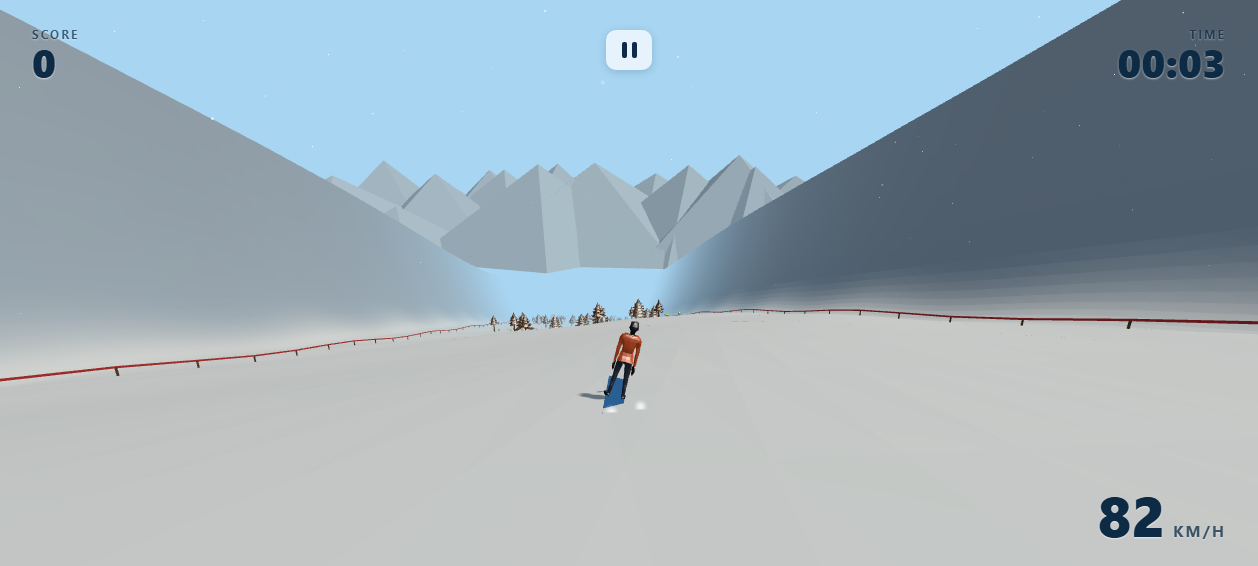
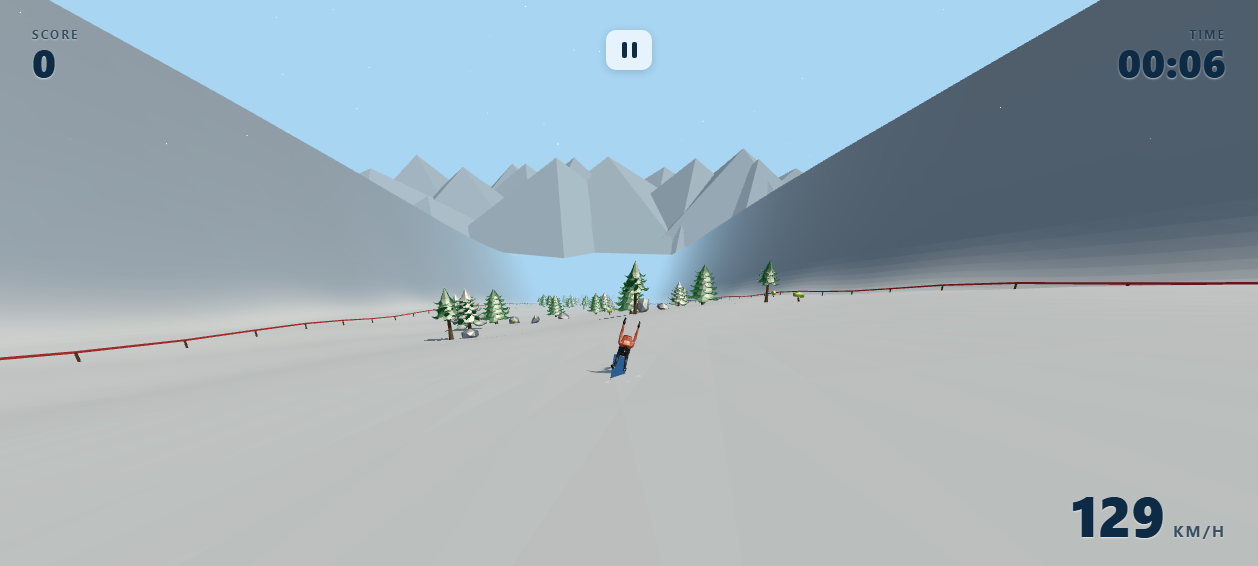
feat: green pines, riding stance and rider helmet
- Fix multi-material split for non-indexed FBX geometry (pines now show green foliage instead of all-brown)
- Pine palette tinted green; forest weighted toward green pines with one snow-capped variant
- Rider gets a layered crouch/lean riding stance on top of the idle clip
- Helmet and goggles attached to the head bone
- README screenshots refreshed

diff --git a/src/world/ModelLibrary.ts b/src/world/ModelLibrary.ts
@@ -29,12 +29,8 @@ export interface ModelLibrary {
   rider: RiderAsset | null;
 }
 
-const TREE_URLS = [
-  'models/pine_snow1.fbx',
-  'models/pine_snow2.fbx',
-  'models/pine1.fbx',
-  'models/pine2.fbx',
-];
+// Weighted toward the plain (green) pines; one snow-capped variant for variety.
+const TREE_URLS = ['models/pine1.fbx', 'models/pine2.fbx', 'models/pine1.fbx', 'models/pine_snow1.fbx'];
 const ROCK_URLS = ['models/rock1.fbx', 'models/rock2.fbx', 'models/rock3.fbx'];
 const BUSH_URLS = ['models/bush1.fbx', 'models/bush2.fbx', 'models/bush3.fbx'];
 const RIDER_URL = 'models/rider.fbx';
@@ -66,16 +62,37 @@ function collectParts(
     produced.push(sub);
   };
 
-  if (materials.length > 1 && groups.length > 0 && index) {
+  if (materials.length > 1 && groups.length > 0) {
     for (const group of groups) {
-      const sub = geometry.clone();
-      sub.clearGroups();
-      sub.setIndex(
-        new THREE.BufferAttribute(
-          (index.array as unknown as number[]).slice(group.start, group.start + group.count) as never,
-          1,
-        ),
-      );
+      const sub = new THREE.BufferGeometry();
+      for (const name of Object.keys(geometry.attributes)) {
+        const attribute = geometry.attributes[name] as THREE.BufferAttribute;
+        const itemSize = attribute.itemSize;
+        if (index) {
+          sub.setAttribute(name, attribute.clone());
+        } else {
+          // Non-indexed: group ranges address vertices directly.
+          const array = (attribute.array as unknown as number[]).slice(
+            group.start * itemSize,
+            (group.start + group.count) * itemSize,
+          );
+          sub.setAttribute(
+            name,
+            new THREE.BufferAttribute(array as never, itemSize, attribute.normalized),
+          );
+        }
+      }
+      if (index) {
+        sub.setIndex(
+          new THREE.BufferAttribute(
+            (index.array as unknown as number[]).slice(
+              group.start,
+              group.start + group.count,
+            ) as never,
+            1,
+          ),
+        );
+      }
       push(materials[group.materialIndex ?? 0], sub);
     }
     return produced;
@@ -160,19 +177,33 @@ function tint(asset: ModelAsset, color: number): ModelAsset {
   return asset;
 }
 
+/** Recolours only the named materials (keeps e.g. snow white). */
+function tintByName(asset: ModelAsset, map: Record<string, number>): ModelAsset {
+  for (const part of asset.parts) {
+    const color = map[part.material.name];
+    if (color === undefined) continue;
+    const material = part.material.clone();
+    if ('color' in material) (material as THREE.MeshStandardMaterial).color.setHex(color);
+    part.material = material;
+  }
+  return asset;
+}
+
 async function loadGroup(
   loader: FBXLoader,
   urls: string[],
   targetHeight: number,
   fallbackColor: number,
-  tintColor?: number,
+  options: { tint?: number; tintMap?: Record<string, number> } = {},
 ): Promise<ModelAsset[]> {
   const assets: ModelAsset[] = [];
   for (const url of urls) {
     try {
       const object = await loader.loadAsync(url);
-      const asset = normalise(object, targetHeight);
-      assets.push(tintColor === undefined ? asset : tint(asset, tintColor));
+      let asset = normalise(object, targetHeight);
+      if (options.tint !== undefined) asset = tint(asset, options.tint);
+      if (options.tintMap) asset = tintByName(asset, options.tintMap);
+      assets.push(asset);
     } catch (error) {
       console.warn(`SnowRush: could not load ${url}, using fallback`, error);
       assets.push(fallbackAsset(fallbackColor, targetHeight));
@@ -237,14 +268,12 @@ export function createFallbackLibrary(): ModelLibrary {
 export async function loadModelLibrary(): Promise<ModelLibrary> {
   const loader = new FBXLoader();
   const [trees, rocks, bushes, rider] = await Promise.all([
-    loadGroup(loader, TREE_URLS, CONFIG.course.trees.visualHeight, CONFIG.colors.treeFoliage),
-    loadGroup(
-      loader,
-      ROCK_URLS,
-      CONFIG.course.rocks.visualHeight,
-      CONFIG.colors.rock,
-      CONFIG.colors.rock,
-    ),
+    loadGroup(loader, TREE_URLS, CONFIG.course.trees.visualHeight, CONFIG.colors.treeFoliage, {
+      tintMap: { Green: CONFIG.colors.pineGreen, Brown: CONFIG.colors.treeTrunk },
+    }),
+    loadGroup(loader, ROCK_URLS, CONFIG.course.rocks.visualHeight, CONFIG.colors.rock, {
+      tint: CONFIG.colors.rock,
+    }),
     loadGroup(loader, BUSH_URLS, CONFIG.course.bushes.visualHeight, CONFIG.colors.treeFoliage),
     loadRider(loader),
   ]);

diff --git a/src/player/PlayerVisual.ts b/src/player/PlayerVisual.ts
@@ -18,6 +18,7 @@ export class PlayerVisual {
   private mixer: THREE.AnimationMixer | null = null;
   private readonly actions: Partial<Record<RiderAnimation, THREE.AnimationAction>> = {};
   private currentAnimation: RiderAnimation | null = null;
+  private readonly pose: Array<{ bone: THREE.Bone; x: number; y: number; z: number }> = [];
 
   constructor(rider: RiderAsset | null) {
     const p = CONFIG.player;
@@ -56,7 +57,47 @@ export class PlayerVisual {
     if (jump) this.actions.jump = this.mixer.clipAction(jump);
     if (death) this.actions.death = this.mixer.clipAction(death);
 
+    this.buildRidingPose(rider.container);
     this.setAnimation('idle');
+  }
+
+  /**
+   * Layered on top of the idle clip every frame: a crouched riding stance plus
+   * a helmet and goggles attached to the head bone.
+   */
+  private buildRidingPose(root: THREE.Object3D): void {
+    const p = CONFIG.player;
+    const bone = (name: string) => root.getObjectByName(name) as THREE.Bone | undefined;
+
+    const add = (name: string, x = 0, y = 0, z = 0) => {
+      const target = bone(name);
+      if (target) this.pose.push({ bone: target, x, y, z });
+    };
+
+    add('Torso', p.riderTorsoLean);
+    add('UpperLegL', -p.riderKneeBend * 0.35);
+    add('UpperLegR', -p.riderKneeBend * 0.35);
+    add('LowerLegL', p.riderKneeBend);
+    add('LowerLegR', p.riderKneeBend);
+
+    const head = bone('Head');
+    if (!head) return;
+
+    const helmet = new THREE.Mesh(
+      new THREE.SphereGeometry(0.3, 10, 8, 0, Math.PI * 2, 0, Math.PI * 0.6),
+      new THREE.MeshStandardMaterial({ color: CONFIG.colors.helmet, roughness: 0.55, flatShading: true }),
+    );
+    helmet.position.set(0, 0.14, 0);
+    helmet.castShadow = true;
+    head.add(helmet);
+
+    const goggles = new THREE.Mesh(
+      new THREE.BoxGeometry(0.42, 0.14, 0.12),
+      new THREE.MeshStandardMaterial({ color: 0x151a20, roughness: 0.3, metalness: 0.2, flatShading: true }),
+    );
+    goggles.position.set(0, 0.18, 0.3);
+    goggles.castShadow = true;
+    head.add(goggles);
   }
 
   private buildPrimitiveRider(boardTop: number): void {
@@ -97,7 +138,14 @@ export class PlayerVisual {
   }
 
   update(dt: number): void {
-    this.mixer?.update(dt);
+    if (!this.mixer) return;
+    this.mixer.update(dt);
+    // Re-apply the riding stance on top of the freshly sampled animation pose.
+    for (const entry of this.pose) {
+      if (entry.x) entry.bone.rotateX(entry.x);
+      if (entry.y) entry.bone.rotateY(entry.y);
+      if (entry.z) entry.bone.rotateZ(entry.z);
+    }
   }
 
   sync(position: THREE.Vector3, heading: number, tilt = 0, pitch = 0, roll = 0, lean = 0): void {

diff --git a/src/core/Config.ts b/src/core/Config.ts
@@ -202,6 +202,9 @@ export const CONFIG = {
     /** Animated rider model: target height and yaw correction (radians). */
     riderHeight: 1.78,
     riderYaw: Math.PI,
+    /** Riding stance layered on top of the idle animation (radians). */
+    riderTorsoLean: 0.12,
+    riderKneeBend: 0.25,
     colliderFriction: 0.3,
     density: 1,
     linearDamping: 0,
@@ -268,6 +271,7 @@ export const CONFIG = {
     helmet: 0x1f2933,
     treeTrunk: 0x6b4a2f,
     treeFoliage: 0x2f5d3a,
+    pineGreen: 0x2e7d46,
     snowCap: 0xf7fbff,
     rock: 0x7b8794,
     gate: 0xd93b3b,
